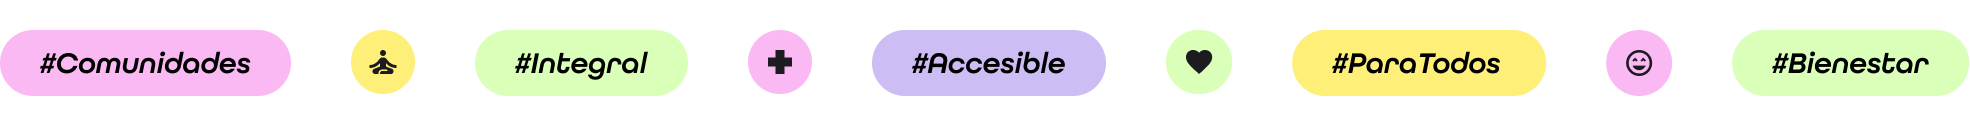
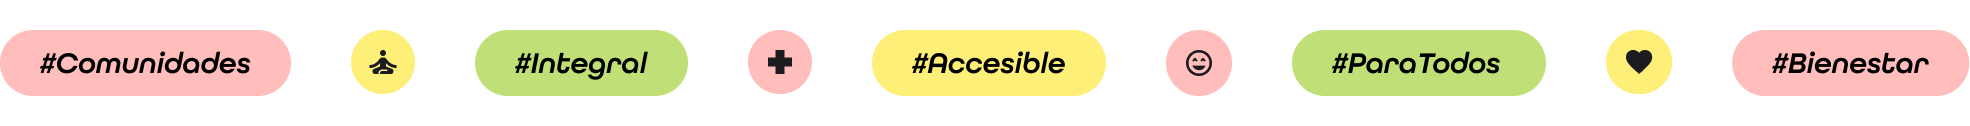
cambios ok

diff --git a/index.html b/index.html
@@ -74,28 +74,30 @@
         <nav id="navmenu" class="navmenu">
           <ul>
             <li><a href="#hero" class="active">Home</a></li>
-            <li><a href="#about">About</a></li>
+            <li><a href="#about">Sobre nosotros</a></li>
             <li><a href="#services">Services</a></li>
-            <li><a href="#portfolio">Portfolio</a></li>
-            <li><a href="#team">Team</a></li>
+            <li><a href="#portfolio">Nuestro centro</a></li>
+            <li><a href="#team">Equipo</a></li>
             <li class="dropdown"><a href="#"><span>Dropdown</span> <i class="bi bi-chevron-down toggle-dropdown"></i></a>
               <ul>
                 <li><a href="#">Dropdown 1</a></li>
-                <li class="dropdown"><a href="#"><span>Deep Dropdown</span> <i class="bi bi-chevron-down toggle-dropdown"></i></a>
+                <li class="dropdown"><a href="#"><span>Cursos</span> <i class="bi bi-chevron-down toggle-dropdown"></i></a>
+                  <!-- 
                   <ul>
-                    <li><a href="#">Deep Dropdown 1</a></li>
+                    <li><a href="#">TOP100</a></li>
                     <li><a href="#">Deep Dropdown 2</a></li>
                     <li><a href="#">Deep Dropdown 3</a></li>
                     <li><a href="#">Deep Dropdown 4</a></li>
                     <li><a href="#">Deep Dropdown 5</a></li>
                   </ul>
+                  -->
                 </li>
-                <li><a href="#">Dropdown 2</a></li>
-                <li><a href="#">Dropdown 3</a></li>
-                <li><a href="#">Dropdown 4</a></li>
+                <li><a href="#">TOP100</a></li>
+                <li><a href="#">TOP100</a></li>
+                <li><a href="#">TOP100</a></li>
               </ul>
             </li>
-            <li><a href="#contact">Contact</a></li>
+            <li><a href="#contact">Contacto</a></li>
           </ul>
           <i class="mobile-nav-toggle d-xl-none bi bi-list"></i>
         </nav>
@@ -118,7 +120,8 @@
             <br>
             <p>Descubre un espacio donde tu cuerpo y mente encuentran equilibrio. ¡Únete a nuestros cursos guiados por expertos y consigue la motivación y el conocimiento que necesitas para alcanzar tus metas!</p>
             <div class="d-flex">
-              <a href="#about" class="btn-get-started">Prueba gratis</a>
+              <a href="#about" class="btn-get-started">Obtén tu clase gratuita</a>
+              
               <!--
               <a href="https://www.youtube.com/watch?v=LXb3EKWsInQ" class="glightbox btn-watch-video d-flex align-items-center"><i class="bi bi-play-circle"></i><span>Watch Video</span></a>
               -->
@@ -289,7 +292,7 @@
       <div class="container">
 
         <div class="container section-title" data-aos="fade-up">
-          <h2>About</h2>
+          <h2>Sobre nosotros</h2>
           <p><span>¡Conoce nuestros </span> <span class="description-title">ideales</span><span>!</span></p>
         </div>
 
@@ -340,7 +343,7 @@
 
       <!-- Section Title -->
       <div class="container section-title" data-aos="fade-up">
-        <h2>Team</h2>
+        <h2>Nuestro equipo</h2>
         <p><span>Contamos con un equipo multidisciplinar que </span> <span class="description-title">te va a cuidar</span><span>.</span></p>
       </div><!-- End Section Title -->
 
@@ -502,7 +505,7 @@
 
           <div class="col-xl-4 col-lg-6" data-aos="fade-up" data-aos-delay="400">
             <div class="pricing-item featured">
-              <h3>TALLER TOP50</h3>
+              <h3>TALLER INTRODUCTORIO</h3>
               <p>Curso presencial de fitness y bienestar integral.</p>
               <br>
               <ul>
@@ -510,16 +513,16 @@
                 <li><span class="material-symbols-outlined">task_alt</span> Introducción al Fitness y Bienestar Integral</li>
                 <li><span class="material-symbols-outlined">task_alt</span> Principios del Entrenamiento Físico</li>
                 <li><span class="material-symbols-outlined">task_alt</span> Técnicas de Entrenamiento de Fuerza y Resistencia</li>
-                <li><span class="material-symbols-outlined">task_alt</span> Cardio y Ejercicios Aeróbicos</li>
-                <li><span class="material-symbols-outlined">task_alt</span> Fundamentos del Yoga</li>
-                <li><span class="material-symbols-outlined">task_alt</span> Técnicas de Meditación y Relajación</li>
-                <li><span class="material-symbols-outlined">task_alt</span> Nutrición y Dieta Saludable</li>
-                <li><span class="material-symbols-outlined">task_alt</span> Enfoques Holísticos de Vida Saludable</li>
-                <li><span class="material-symbols-outlined">task_alt</span> Prevención de Lesiones y Recuperación</li>
-                <li><span class="material-symbols-outlined">task_alt</span> Proyecto Final y Evaluación</li>
+                <li style="text-decoration: line-through;"><span style="color: #CC4743" class="material-symbols-outlined">cancel</span> Cardio y Ejercicios Aeróbicos</li>
+                <li style="text-decoration: line-through;"><span style="color: #CC4743" class="material-symbols-outlined">cancel</span> Fundamentos del Yoga</li>
+                <li style="text-decoration: line-through;"><span style="color: #CC4743" class="material-symbols-outlined">cancel</span> Técnicas de Meditación y Relajación</li>
+                <li style="text-decoration: line-through;"><span style="color: #CC4743" class="material-symbols-outlined">cancel</span> Nutrición y Dieta Saludable</li>
+                <li style="text-decoration: line-through;"><span style="color: #CC4743" class="material-symbols-outlined">cancel</span> Enfoques Holísticos de Vida Saludable</li>
+                <li style="text-decoration: line-through;"><span style="color: #CC4743" class="material-symbols-outlined">cancel</span> Prevención de Lesiones y Recuperación</li>
+                <li style="text-decoration: line-through;"><span style="color: #CC4743" class="material-symbols-outlined">cancel</span> Proyecto Final y Evaluación</li>
               </ul>
               <h4 style="margin: 0px; padding: 0px;"><span style="color:transparent; margin: 0px; padding: 0px;"> 0</span></h4>
-              <h4><sup>$</sup>29<span> / month</span></h4>
+              <h4><sup>$</sup>10<span> / por mes  </span></h4>
               <div class="btn-wrap">
                 <a href="#" class="btn-buy">QUIERO SER PARTE</a>
               </div>
@@ -546,7 +549,7 @@
                 <li><span class="material-symbols-outlined">task_alt</span> Proyecto Final y Evaluación</li>
               </ul>
               <h4 style="margin: 0px; padding: 0px;"><span style="text-decoration: line-through; margin: 0px; padding: 0px;">$50 / month</span></h4>
-              <h4><sup>$</sup>25<span> / month</span><span style="font-weight: bold; color: #8052C9;"> 50% OFF</span></h4>
+              <h4><sup>$</sup>25<span> / por mes </span><span style="font-weight: bold; font-style: italic; color: #8052C9; margin-left: 5px;">¡50% OFF!</span></h4>
               <div class="btn-wrap">
                 <a href="#" class="important">QUIERO SER PARTE</a>
               </div>
@@ -556,7 +559,7 @@
 
           <div class="col-xl-4 col-lg-6" data-aos="fade-up" data-aos-delay="200">
             <div class="pricing-item featured">
-              <h3>TALLER TOP30</h3>
+              <h3>TALLER AVANZADO</h3>
               <p>Curso presencial de fitness y bienestar integral.</p>
               <br>
               <ul>
@@ -573,7 +576,7 @@
                 <li><span class="material-symbols-outlined">task_alt</span> Proyecto Final y Evaluación</li>
               </ul>
               <h4 style="margin: 0px; padding: 0px;"><span style="color:transparent; margin: 0px; padding: 0px;"> 0</span></h4>
-              <h4><sup>$</sup>29<span> / month</span></h4>
+              <h4><sup>$</sup>29<span> / por mes  </span></h4>
               <div class="btn-wrap">
                 <a href="#" class="btn-buy">QUIERO SER PARTE</a>
               </div>
@@ -624,7 +627,7 @@
               -->
               <ul>
                 <li>
-                  <i class="bi "><img src="assets/img/testimonials/testimonials-4.jpg" alt="" class="img-fluid"></i>
+                  <i class="bi "><img style="border-radius: 100%;" src="assets/img/testimonials/Sara.png" alt="" class="img-fluid"></i>
                   <div>
                     <h4 class="fst-italic">¡El taller TOP100 me cambió la vida! Lorem ipsum dolor sit amet, consectetur adipiscing elit. Nullam diam dui, vehicula eget faucibus vitae, efficitur ac enim.</h4>
                     <p>Sara, estudiante graduada del taller TOP100.</p>
@@ -1147,7 +1150,7 @@
       <!-- Section Title -->
       <div class="container section-title" data-aos="fade-up">
         <h2>F.A.Q</h2>
-        <p><span>Frequently Asked</span> <span class="description-title">Questions</span></p>
+        <p><span>Preguntas</span> <span class="description-title">Frecuentes</span></p>
       </div><!-- End Section Title -->
 
       <div class="container">
@@ -1222,7 +1225,7 @@
       <!-- Section Title -->
       <div class="container section-title" data-aos="fade-up">
         <h2>Contact</h2>
-        <p><span>Need Help?</span> <span class="description-title">Contact Us</span></p>
+        <p><span>¿Te quedó alguna duda?</span> <span class="description-title">¡Contactanos!</span></p>
       </div><!-- End Section Title -->
 
       <div class="container" data-aos="fade-up" data-aos-delay="100">

diff --git a/assets/css/main.css b/assets/css/main.css
@@ -46,23 +46,24 @@
   --blatant-bold-italic: 'blatant-bold-italic';
   */
 
-  --font-regular: 'all-round-gothic', sans-serif;
-  --font-regular-italic: 'all-round-gothic', sans-serif;
-  --font-bold: 'all-round-gothic', sans-serif;
-  --font-bold-italic: 'all-round-gothic', sans-serif;
+  --font-regular: 'all-round-gothic', sans-serif;  
+  --font-regular-italic: 'all-round-gothic', sans-serif;  
+  --font-bold:  'all-round-gothic', sans-serif;  
+  --font-bold-italic:  'all-round-gothic', sans-serif;  
 }
 
 /* Global Colors - The following color variables are used throughout the website. Updating them here will change the color scheme of the entire website */
 :root { 
   --background-color: #ffffff; /* Background color for the entire website, including individual sections */
-  --background-important-color: #8052C9;
+  --background-important-color: #8D88F7;
   --default-color: #444444; /* Default color used for the majority of the text content across the entire website */
   --heading-color: #222222; /* Color for headings, subheadings and title throughout the website */
-  --accent-color: #8052C9; /* Accent color that represents your brand on the website. It's used for buttons, links, and other elements that need to stand out */
-  --accent-light-color: #B5E742;
+  --accent-color: #8D88F7; /* Accent color that represents your brand on the website. It's used for buttons, links, and other elements that need to stand out */
+  --accent-light-color: #C0DF77;
 
   --accent-light-pastel-color: #DAFFB9;
   --accent-light-2-color: #FEEF78;
+  --accent-light-3-color: #FEEF78;
   --accent-pastel-color: #CCBDF4;
   --accent-pastel-2-color: #FBB9F4;
 
@@ -73,7 +74,7 @@
 /* Nav Menu Colors - The following color variables are used specifically for the navigation menu. They are separate from the global colors to allow for more customization options */
 :root {
   --nav-color: #222222;  /* The default color of the main navmenu links */
-  --nav-hover-color: #B5E742; /* Applied to main navmenu links when they are hovered over or active */
+  --nav-hover-color: #C0DF77; /* Applied to main navmenu links when they are hovered over or active */
   --nav-dropdown-background-color: #ffffff; /* Used as the background color for dropdown items that appear when hovering over primary navigation items */
   --nav-dropdown-color: #222222; /* Used for navigation links of the dropdown items in the navigation menu. */
   --nav-dropdown-hover-color: #8052C9; /* Similar to --nav-hover-color, this color is applied to dropdown navigation links when they are hovered over. */
@@ -93,7 +94,7 @@
 
 /*INICIO Clients-container */
 .square {
-  background-color: var(--accent-light-2-color);
+  background-color: #FFFFFF;
   display: flex;
   align-items: center;
   justify-content: center;
@@ -590,7 +591,7 @@ h6 {
   padding: 15px;
   margin-top: 10px;
   font-weight: 600;
-  border-radius: 4px;
+  border-radius: 10px;
 }
 
 .footer .footer-newsletter .loading {
@@ -911,7 +912,7 @@ section,
   padding: 8px 20px;
 
   background: var(--accent-color);
-  color:  var(--accent-light-color); /* var(--accent-color); */
+  color:  #ffffff; /* var(--accent-color); */
   display: inline-block;
   text-transform: uppercase;
   border-radius: 50px;
@@ -999,7 +1000,7 @@ section,
 }
 
 .hero .btn-get-started {
-  color: var(--accent-color); 
+  color:  #000000; 
   background: var(--accent-light-color); 
   font-family: var(--heading-font);
   font-weight: 700;
@@ -1007,13 +1008,13 @@ section,
   letter-spacing: 1px;
   display: inline-block;
   padding: 12px 30px;
-  border-radius: 4px;
+  border-radius: 10px;
   transition: 0.5s;
   box-shadow: 0 8px 28px color-mix(in srgb, var(--accent-color), transparent 80%);
 }
 
 .hero .btn-get-started:hover { /* VER */
-  color: var(--accent-color);
+  
   background: var(--accent-light-pastel-color);
   box-shadow: 0 8px 28px color-mix(in srgb, var(--accent-color), transparent 55%);
 }
@@ -1147,6 +1148,7 @@ section,
 .about  .img-fluid{
   padding: 10%; 
 }
+
 
 
 .about .about-content h3 {
@@ -1760,10 +1762,10 @@ section,
 
 .pricing .btn-buy {
   background: var(--accent-color);
-  color: var(--contrast-color);
+  color: #ffffff;
   display: inline-block;
   padding: 8px 35px 10px 35px;
-  border-radius: 4px;
+  border-radius: 10px;
   transition: none;
   font-size: 14px;
   font-weight: 400;
@@ -1774,10 +1776,10 @@ section,
 
 .pricing .important{
   background: var(--accent-light-color);
-  color: var(--accent-color);
+  color: #000000;
   display: inline-block;
   padding: 8px 35px 10px 35px;
-  border-radius: 4px;
+  border-radius: 10px;
   transition: none;
   font-size: 14px;
   font-weight: 400;
@@ -1795,13 +1797,13 @@ section,
 }
 
 .pricing .featured h3 {
-  background: var(--accent-pastel-color);
-  color: var(--accent-color);
+  background: var(--accent-light-3-color);
+  color: #000000;
 }
 
 .pricing .advanced {
   background: var(--accent-light-color);
-  color: var(--accent-color);
+  color: #000000;
   width: 200px;
   position: absolute;
   top: 18px;
@@ -2036,7 +2038,7 @@ section,
   border: 0;
   padding: 10px 30px;
   transition: 0.4s;
-  border-radius: 4px;
+  border-radius: 10px;
 }
 
 .contact .php-email-form button[type=submit]:hover {
